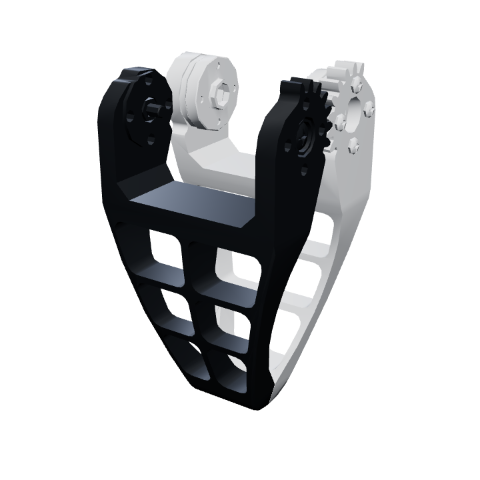
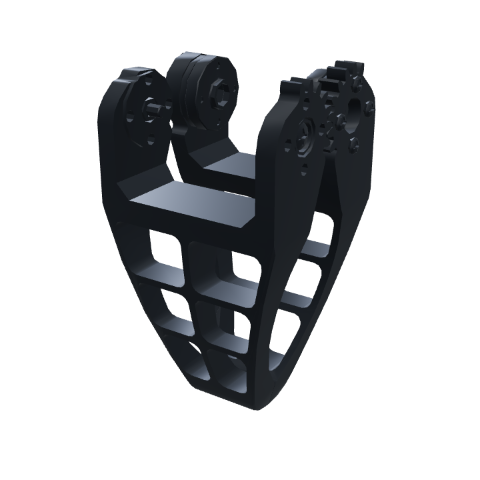
OMX-F 를 실물처럼 검정으로 · 밝은 회색 스튜디오 배경
- ArmSpec.finish 'black': 팔 전체를 무광 검정 두 톤(링크마다 번갈아)으로, 손가락도 검정
- 검정 팔은 밝은 회색 스튜디오(배경 · 책상 · 격자)에서, 흰 팔(myCobot)은 지금처럼 짙은 배경
- 미니 로봇(옆모습)도 검정 팔에는 짙은 반투명으로
- 모델 고르기 그림 · 그리퍼 카드 그림을 검정으로 다시 렌더 (팔 그림에 자체 그리퍼 포함)

Claude-Session: https://claude.ai/code/session_01KrwKgPsQRjzjbDSQEMYCSA

diff --git a/web-typescript/src/ui/simulator/stage/Stage.tsx b/web-typescript/src/ui/simulator/stage/Stage.tsx
@@ -87,7 +87,7 @@ import { baseDressing, buildArm, buildTool, partMesh, type GlbNodes } from './ro
 import { ALERT_COLOR, MiniArm, type MiniRect, type MonitorOut } from './MiniArm';
 import { AlertTracker } from '@/engine/robot/jointAlert';
 import StudioLight from './StudioLight';
-import { DESK_M, SCENE, TOOL_LAYER, addJointAxes, axesTriad, deskSpot, framing, meshBox, reachDisc, type DisplayOpts, type FreeFrame } from './sceneHelpers';
+import { DESK_M, TOOL_LAYER, sceneFor, addJointAxes, axesTriad, deskSpot, framing, meshBox, reachDisc, type DisplayOpts, type FreeFrame } from './sceneHelpers';
 import { workspaceEnvelope } from '../../education/stage/learn3d';
 import type { ArmSpec } from '@/engine/robot/arms';
 import { CellObjects, CellPhysics, DeskObjects, DeskPhysics, type DeskEdit } from './DeskObjects';
@@ -271,6 +271,7 @@ export default function Stage(props: StageProps) {
   const key = useRef<DirectionalLight>(null);
   const fill = useRef<DirectionalLight>(null);
   const lights = useMemo<Lights>(() => ({ hemi, key, fill }), []);
+  const look = sceneFor(props.arm.finish);
   return (
     <Canvas
       // High quality: variance shadows with a blur, soft edges like a room light. Normal: plain
@@ -297,7 +298,7 @@ export default function Stage(props: StageProps) {
         gl.toneMappingExposure = 1;
       }}
     >
-      <color attach="background" args={[SCENE.sky]} />
+      <color attach="background" args={[look.sky]} />
       <StudioLight intensity={props.cell ? 0.75 : 0.5} softbox={!props.cell} factory={!!props.cell} />
       <hemisphereLight ref={hemi} args={['#ffffff', '#cfd6de', 0.3]} />
       <directionalLight
@@ -330,10 +331,10 @@ export default function Stage(props: StageProps) {
           infiniteGrid
           cellSize={0.01}
           cellThickness={0.7}
-          cellColor={SCENE.cell}
+          cellColor={look.cell}
           sectionSize={0.1}
           sectionThickness={1}
-          sectionColor={SCENE.section}
+          sectionColor={look.section}
           fadeDistance={2.4}
           fadeStrength={1.4}
         />
@@ -398,10 +399,10 @@ function World({
   const nodes = useMemo(() => Object.assign({}, ...gltfs.map((g) => g.nodes)) as GlbNodes, [gltfs]);
   const root = useRef<Group>(null);
 
-  const arm = useMemo(() => buildArm(robot, chain, nodes, { dark: spec.dark, flange: spec.flange, textures: spec.textures, flangeLink: spec.flangeLink }), [robot, chain, nodes, spec]);
+  const arm = useMemo(() => buildArm(robot, chain, nodes, { dark: spec.dark, flange: spec.flange, textures: spec.textures, flangeLink: spec.flangeLink, finish: spec.finish }), [robot, chain, nodes, spec]);
   // The program's end pose: the same arm, see-through blue, on screen only (not in the camera pictures).
   const ghostArm = useMemo(() => {
-    const g = buildArm(robot, chain, nodes, { dark: spec.dark, flange: spec.flange, textures: spec.textures, flangeLink: spec.flangeLink });
+    const g = buildArm(robot, chain, nodes, { dark: spec.dark, flange: spec.flange, textures: spec.textures, flangeLink: spec.flangeLink, finish: spec.finish });
     const mat = new MeshBasicMaterial({ color: '#6f9bff', transparent: true, opacity: 0.2, depthWrite: false });
     g.root.traverse((o) => {
       const m = o as Mesh;
@@ -663,7 +664,7 @@ function World({
 
   return (
     <group ref={root} rotation={[-Math.PI / 2, 0, 0]}>
-      {!cell && <Desk z={theme === 'kit' ? DESK_Z : 0} />}
+      {!cell && <Desk z={theme === 'kit' ? DESK_Z : 0} finish={spec.finish} />}
       {cell ? (
         <>
           <CellScene world={world} cell={cell} tags={cellTags} />
@@ -693,7 +694,7 @@ function World({
         <primitive object={arm.root} />
         {ghost && <primitive object={ghostArm.root} />}
         {miniRect && monitor && (
-          <MiniArm robot={robot} chain={chain} nodes={nodes} look={{ dark: spec.dark, flange: spec.flange, textures: spec.textures, flangeLink: spec.flangeLink }} world={world} place={miniRect} out={monitor} composer={quality === 'high'} />
+          <MiniArm robot={robot} chain={chain} nodes={nodes} look={{ dark: spec.dark, flange: spec.flange, textures: spec.textures, flangeLink: spec.flangeLink, finish: spec.finish }} world={world} place={miniRect} out={monitor} composer={quality === 'high'} />
         )}
         {display.baseAxes && <primitive object={baseAxes} />}
         {display.reach && shell && <primitive object={shell.group} />}
@@ -793,9 +794,9 @@ function fitView(name: ViewName, root: Group, arm: Group, area: { min: readonly 
 
 /* --- the AI Kit ------------------------------------------------------------- */
 
-/** The desk: a plane lit like a spot under the robot (sceneHelpers' SCENE · deskSpot). */
-function Desk({ z }: { z: number }) {
-  const spot = useMemo(() => deskSpot(), []);
+/** The desk: a plane lit like a spot under the robot (sceneHelpers' sceneFor · deskSpot). */
+function Desk({ z, finish }: { z: number; finish?: 'black' }) {
+  const spot = useMemo(() => deskSpot(sceneFor(finish)), [finish]);
   useEffect(() => () => spot.dispose(), [spot]);
   return (
     <mesh position={[0.14, 0, z / 1000 - 0.0005]} receiveShadow>

diff --git a/web-typescript/src/ui/simulator/stage/robotModel.ts b/web-typescript/src/ui/simulator/stage/robotModel.ts
@@ -90,6 +90,25 @@ const shellMaterial = (map?: Texture, tone = 0) => {
   return m;
 };
 
+/**
+ * A black arm (ArmSpec.finish 'black', OMX-F): matte black frames in two near-blacks taken in turn so
+ * each link reads apart, with a soft sheen towards the outline (in a bright studio the edges of a
+ * black part catch the light instead of going darker).
+ */
+const BLACK_TONES = ['#1b1e22', '#2b3036'];
+const blackMaterial = (tone = 0) => {
+  const m = new MeshPhysicalMaterial({ color: new Color(BLACK_TONES[tone]), roughness: 0.5, metalness: 0.05, clearcoat: 0.3, clearcoatRoughness: 0.45 });
+  m.onBeforeCompile = (sh) => {
+    sh.fragmentShader = sh.fragmentShader.replace(
+      '#include <opaque_fragment>',
+      'float edge = 1.0 - clamp(abs(dot(normalize(normal), normalize(vViewPosition))), 0.0, 1.0);\noutgoingLight += vec3(0.05, 0.055, 0.06) * pow(edge, 2.0);\n#include <opaque_fragment>',
+    );
+  };
+  m.customProgramCacheKey = () => 'black-shaded';
+  return m;
+};
+const BLACK = [blackMaterial(0), blackMaterial(1)];
+
 const MATERIALS = {
   shell: shellMaterial(),
   dark: new MeshPhysicalMaterial({ color: new Color('#23272c'), roughness: 0.55, metalness: 0.05, clearcoat: 0.2, clearcoatRoughness: 0.5 }),
@@ -119,7 +138,8 @@ const NODE_MATERIAL: Record<string, Material> = {
   pump_head: MATERIALS.tool,
   pump_box: MATERIALS.dark,
   camera_flange: MATERIALS.flange,
-  omx_finger2: MATERIALS.dark,
+  omx_finger1: BLACK[1],
+  omx_finger2: BLACK[1],
 };
 
 export type GlbNodes = Record<string, Object3D>;
@@ -190,19 +210,24 @@ export interface ArmLook {
   flange: readonly string[];
   textures: Readonly<Record<string, string>>;
   flangeLink: string;
+  /** 'black': every part black (ArmSpec.finish). */
+  finish?: 'black';
 }
 
 function meshFromNode(nodes: GlbNodes, name: string, look?: ArmLook, tone = 0): Object3D {
   const source = nodes[name];
   if (!source) return new Group();
   const clone = source.clone(true);
-  const material = look?.dark.includes(name)
-    ? MATERIALS.dark
-    : look?.flange.includes(name)
-      ? MATERIALS.flange
-      : look
-        ? shellFor(name, look.textures[name], tone)
-        : (NODE_MATERIAL[name] ?? shellFor(name, undefined, tone));
+  const material =
+    look?.finish === 'black' && !look.flange.includes(name)
+      ? BLACK[tone % 2]
+      : look?.dark.includes(name)
+        ? MATERIALS.dark
+        : look?.flange.includes(name)
+          ? MATERIALS.flange
+          : look
+            ? shellFor(name, look.textures[name], tone)
+            : (NODE_MATERIAL[name] ?? shellFor(name, undefined, tone));
   clone.traverse((child) => {
     if ((child as Mesh).isMesh) {
       (child as Mesh).geometry = smoothGeometry((child as Mesh).geometry);

diff --git a/web-typescript/src/ui/simulator/stage/MiniArm.tsx b/web-typescript/src/ui/simulator/stage/MiniArm.tsx
@@ -60,6 +60,8 @@ const DEG = Math.PI / 180;
 
 export const ALERT_COLOR = ['', '#ff9f1c', '#ff3b3b'] as const;
 
+const plainOf = (look?: { finish?: 'black' }) => (look?.finish === 'black' ? '#3a4048' : '#f2f6ff');
+
 export function MiniArm({
   robot,
   chain,
@@ -88,7 +90,8 @@ export function MiniArm({
     key.position.set(0.4, -0.6, 1);
     scene.add(key);
     const arm = buildArm(robot, chain, nodes, look);
-    const base = new MeshStandardMaterial({ color: '#f2f6ff', transparent: true, opacity: 0.62, roughness: 0.55, metalness: 0 });
+    // See-through white over the dark studio; see-through black over a black arm's light one.
+    const base = new MeshStandardMaterial({ color: plainOf(look), transparent: true, opacity: 0.62, roughness: 0.55, metalness: 0 });
     arm.root.traverse((o) => {
       const m = o as Mesh;
       if (m.isMesh) {
@@ -123,7 +126,7 @@ export function MiniArm({
   );
 
   const p = useMemo(() => new Vector3(), []);
-  const plain = useMemo(() => new Color('#f2f6ff'), []);
+  const plain = useMemo(() => new Color(plainOf(look)), [look]);
   useFrame((state) => {
     if (!composer) state.gl.render(state.scene, state.camera);
     const q = world.current?.angles;

diff --git a/web-typescript/src/engine/robot/arms.ts b/web-typescript/src/engine/robot/arms.ts
@@ -79,6 +79,11 @@ export interface ArmSpec {
   ros: { pkg: string; follow: string; joints: readonly string[] };
   /** Arm-only theme: how far the practice mat sits from the 280's place along x, mm (where this arm reaches tool-down). */
   matShiftMm: number;
+  /**
+   * 'black': the arm is sold black (OMX-F) and is drawn black, in the light studio so it stands out
+   * (the white arms keep the dark slate one).
+   */
+  finish?: 'black';
 }
 
 const RDK_TEX = Object.fromEntries(['joint2', 'joint3', 'joint4', 'joint5', 'joint6'].map((n) => [n, `/robot/rdkx5/tex/${n}.jpg`]));
@@ -243,6 +248,7 @@ const OMX_F = {
   sdk: { module: 'omx', cls: 'OMXF', port: '/dev/ttyACM0', baud: 1000000 },
   ros: { pkg: 'open_manipulator_bringup', follow: 'omx_f.launch.py', joints: ['joint1', 'joint2', 'joint3', 'joint4', 'joint5'] },
   matShiftMm: 0,
+  finish: 'black' as const,
 };
 
 export const ARMS: Readonly<Partial<Record<RobotModelId, ArmSpec>>> = {

diff --git a/web-typescript/src/ui/simulator/stage/PartView.tsx b/web-typescript/src/ui/simulator/stage/PartView.tsx
@@ -75,8 +75,10 @@ function Robot({ id, urdf }: { id: RobotModelId; urdf: string }) {
   const object = useMemo(() => {
     const nodes = Object.assign({}, ...gltfs.map((g) => g.nodes)) as GlbNodes;
     const robot = parseUrdf(urdf);
-    const arm = buildArm(robot, buildChain(robot), nodes, { dark: spec.dark, flange: spec.flange, textures: spec.textures, flangeLink: spec.flangeLink });
+    const arm = buildArm(robot, buildChain(robot), nodes, { dark: spec.dark, flange: spec.flange, textures: spec.textures, flangeLink: spec.flangeLink, finish: spec.finish });
     arm.setAngles(spec.home);
+    // An arm with a gripper of its own (OMX-F) is shown holding it, as it is sold.
+    if (spec.tools.length === 1 && spec.tools[0] !== 'none') arm.flange.add(buildTool(spec.tools[0], false, nodes, null).group);
     const g = new Group();
     g.add(arm.root);
     g.rotation.x = -Math.PI / 2;

diff --git a/web-typescript/src/ui/simulator/stage/sceneHelpers.ts b/web-typescript/src/ui/simulator/stage/sceneHelpers.ts
@@ -67,6 +67,12 @@ export const REACH_MM = 280;
  */
 export const SCENE = { sky: '#262d36', desk: '#262d36', spot: '#4a5462', cell: '#4f5a68', section: '#6b7787' };
 
+/** The bright studio for a black arm (ArmSpec.finish 'black'): a light grey the black frames stand out against. */
+export const SCENE_LIGHT: typeof SCENE = { sky: '#dfe3e8', desk: '#dfe3e8', spot: '#f5f7f9', cell: '#c8ced6', section: '#a6afba' };
+
+/** The studio an arm is shown in. */
+export const sceneFor = (finish?: 'black'): typeof SCENE => (finish === 'black' ? SCENE_LIGHT : SCENE);
+
 /** Size of the desk plane, m; the spot under the robot fades out within the middle third. */
 export const DESK_M = 6;
 

diff --git a/web-typescript/src/ui/education/map/world/Features.tsx b/web-typescript/src/ui/education/map/world/Features.tsx
@@ -199,7 +199,7 @@ const siteColor = (id: SiteId) => SITE_BY_ID.get(id)?.color ?? '#888';
 function MapArm({ robot, nodes, r, phase, still }: { robot: UrdfRobot; nodes: GlbNodes; r: MapRobot; phase: number; still: boolean }) {
   const arm = useMemo(() => {
     const spec = armSpec(r);
-    const a = buildArm(robot, buildChain(robot), nodes, { dark: spec.dark, flange: spec.flange, textures: spec.textures, flangeLink: spec.flangeLink });
+    const a = buildArm(robot, buildChain(robot), nodes, { dark: spec.dark, flange: spec.flange, textures: spec.textures, flangeLink: spec.flangeLink, finish: spec.finish });
     shadowAll(a.root);
     a.setAngles(r.angles);
     return a;
